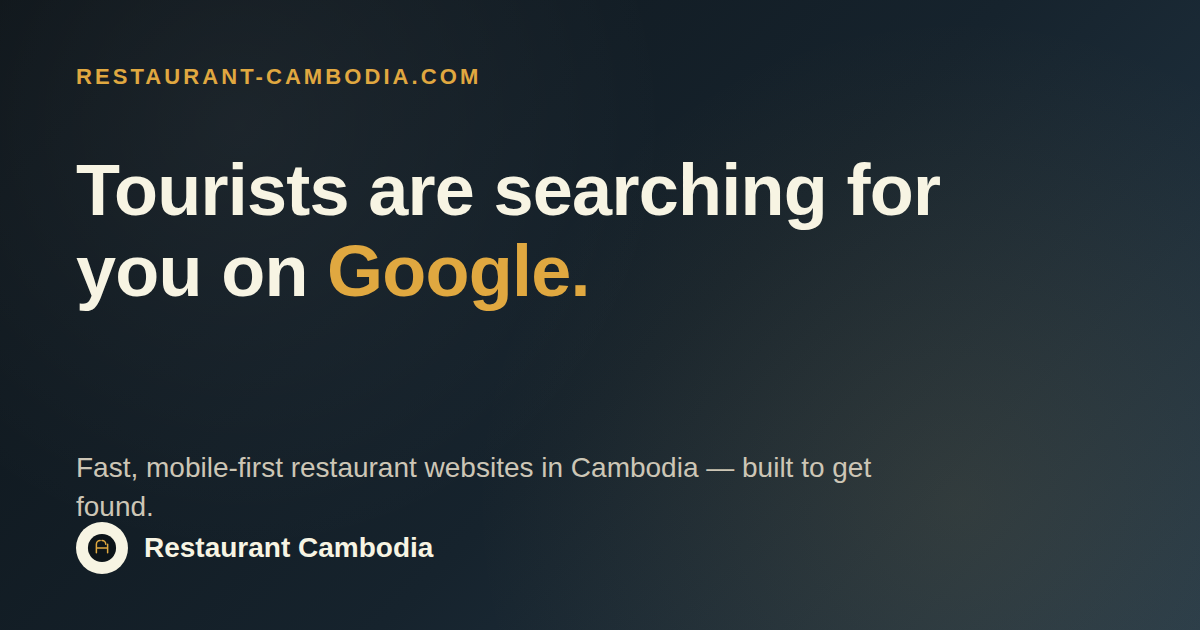
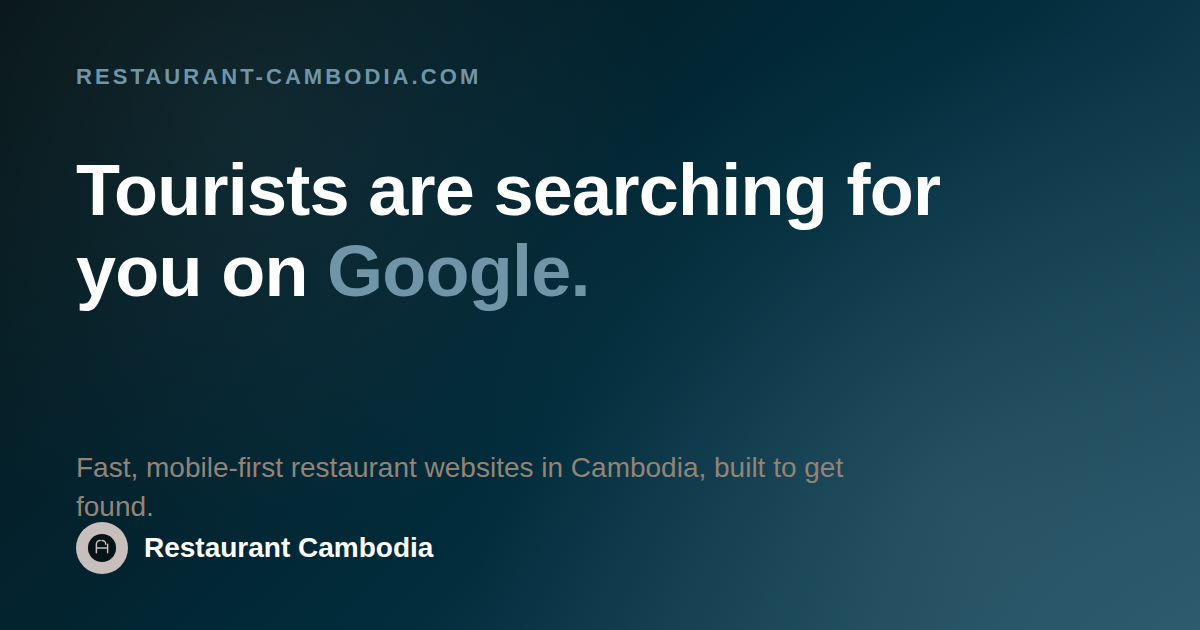
Re-theme to the dusk-lake navy/steel-blue/taupe palette
Swap the color system to the supplied swatches: near-black #061417,
deep navy #012C3C, steel blue #285669, taupe #928477, light greige
#C6BFBB. Unlike the previous gold accent, this palette's accent color
(steel blue) is a mid-tone rather than a light "pop" color, so it can't
do double duty as both a button background (needs light text on it) and
an icon/badge color on dark sections (needs a lighter tint instead).
Reworked every affected rule accordingly: buttons/badges/step-numbers
now use white text instead of dark text, and dark-section icons/borders
(problem items, footer links, featured pricing card) use a new lighter
--turmeric tint rather than the base accent, verified against WCAG
contrast math rather than by eye. Re-paletted the placeholder SVG
mockups, favicon, brand mark, and regenerated the OG share image to
match. Also fixed a couple of hardcoded rgba()/hex values in the header
and shadows that had gone stale in earlier re-themes.

diff --git a/styles.css b/styles.css
@@ -5,18 +5,18 @@
    ========================================================================== */
 
 :root {
-  /* Palette — moody navy/slate with a warm gold accent on cream/greige. */
-  --cream: #f7f4e3;
-  --cream-card: #cdc6b6;
+  /* Palette — moody dusk-lake blues with a warm taupe/greige neutral. */
+  --cream: #c6bfbb;
+  --cream-card: #928477;
   --white: #ffffff;
-  --charcoal: #0d1419;
-  --charcoal-soft: #253a4a;
-  --chili: #e0a840;
-  --chili-dark: #b9821b;
-  --turmeric: #253a4a;
-  --turmeric-dark: #16232d;
-  --line: #e4decd;
-  --shadow: 0 12px 30px -14px rgba(13, 20, 25, 0.35);
+  --charcoal: #061417;
+  --charcoal-soft: #012c3c;
+  --chili: #285669;
+  --chili-dark: #1c3c49;
+  --turmeric: #6f95a6;
+  --turmeric-dark: #012c3c;
+  --line: #ddd9d6;
+  --shadow: 0 12px 30px -14px rgba(6, 20, 23, 0.35);
 
   /* "Google Sans" isn't a redistributable web font — the stack tries it by
      name (resolves on devices that already have it, e.g. ChromeOS/Android)
@@ -153,13 +153,13 @@ section {
 
 .btn-primary {
   background: var(--chili);
-  color: var(--charcoal);
+  color: var(--white);
   box-shadow: var(--shadow);
 }
 
 .btn-primary:hover {
   background: var(--chili-dark);
-  box-shadow: 0 16px 30px -12px rgba(13, 20, 25, 0.45);
+  box-shadow: 0 16px 30px -12px rgba(6, 20, 23, 0.45);
 }
 
 .btn-ghost {
@@ -188,7 +188,7 @@ section {
   position: sticky;
   top: 0;
   z-index: 40;
-  background: rgba(251, 244, 230, 0.92);
+  background: rgba(198, 191, 187, 0.92);
   backdrop-filter: saturate(140%) blur(8px);
   border-bottom: 1px solid var(--line);
 }
@@ -353,6 +353,10 @@ section {
   color: var(--cream);
 }
 
+.problem .eyebrow {
+  color: var(--turmeric);
+}
+
 .problem .section-sub {
   color: var(--cream-card);
 }
@@ -378,14 +382,14 @@ section {
 .problem-item:hover {
   transform: translateY(-4px);
   background: rgba(255, 253, 248, 0.1);
-  border-color: var(--chili);
+  border-color: var(--turmeric);
 }
 
 .problem-item svg {
   width: 26px;
   height: 26px;
   flex: none;
-  color: var(--chili);
+  color: var(--turmeric);
 }
 
 .problem-item h3 {
@@ -429,7 +433,7 @@ section {
   align-items: center;
   justify-content: center;
   border-radius: 12px;
-  background: #f5e6c8;
+  background: #e2ebee;
   color: var(--chili-dark);
   margin-bottom: 14px;
 }
@@ -470,7 +474,7 @@ section {
 
 .example-frame:hover {
   transform: translateY(-6px);
-  box-shadow: 0 20px 40px -16px rgba(13, 20, 25, 0.4);
+  box-shadow: 0 20px 40px -16px rgba(6, 20, 23, 0.4);
 }
 
 .browser-chrome {
@@ -546,7 +550,7 @@ section {
 }
 
 .price-card.featured:hover {
-  box-shadow: 0 20px 40px -16px rgba(13, 20, 25, 0.55);
+  box-shadow: 0 20px 40px -16px rgba(6, 20, 23, 0.55);
 }
 
 .price-card.featured h3,
@@ -564,7 +568,7 @@ section {
   top: -13px;
   left: 24px;
   background: var(--chili);
-  color: var(--charcoal);
+  color: var(--white);
   font-size: 0.72rem;
   font-weight: 800;
   letter-spacing: 0.06em;
@@ -637,7 +641,7 @@ section {
 }
 
 .price-card.featured .price-features svg {
-  color: var(--chili);
+  color: var(--turmeric);
 }
 
 .pricing-note {
@@ -685,7 +689,7 @@ section {
   height: 38px;
   border-radius: 50%;
   background: var(--chili);
-  color: var(--charcoal);
+  color: var(--white);
   font-family: var(--font-display);
   font-weight: 600;
   font-size: 1.1rem;
@@ -743,7 +747,7 @@ section {
   font-weight: 500;
   font-size: 1.2rem;
   margin-top: 14px;
-  color: var(--chili);
+  color: var(--charcoal);
 }
 
 /* ---------- faq ---------- */
@@ -854,13 +858,13 @@ section {
 .footer-links svg {
   width: 18px;
   height: 18px;
-  color: var(--chili);
+  color: var(--turmeric);
 }
 
 .footer-fine {
   margin-top: 20px;
   font-size: 0.8rem;
-  color: #7c8b93;
+  color: var(--cream-card);
 }
 
 /* ---------- sticky mobile CTA bar ---------- */
@@ -873,7 +877,7 @@ section {
   padding: 10px 16px calc(10px + env(safe-area-inset-bottom));
   background: var(--white);
   border-top: 1px solid var(--line);
-  box-shadow: 0 -8px 20px -12px rgba(13, 20, 25, 0.3);
+  box-shadow: 0 -8px 20px -12px rgba(6, 20, 23, 0.3);
 }
 
 .sticky-cta .btn {

diff --git a/index.html b/index.html
@@ -6,7 +6,7 @@
 <title>Websites for Restaurants in Cambodia: Get Found on Google</title>
 <meta name="description" content="Fast, mobile-first websites for restaurants in Cambodia. Get found on Google Maps and search, not just Facebook. From $144/year. Message on Telegram." />
 <link rel="canonical" href="https://restaurant-cambodia.com/" />
-<meta name="theme-color" content="#f7f4e3" />
+<meta name="theme-color" content="#c6bfbb" />
 <meta name="robots" content="index, follow" />
 
 <!-- Open Graph -->
@@ -47,12 +47,12 @@
 
 <!-- Critical above-the-fold CSS, inlined so the hero paints before styles.css arrives. -->
 <style>
-  :root{--cream:#f7f4e3;--charcoal:#0d1419;--chili:#e0a840;--font-display:"Google Sans","Google Sans Text",Roboto,Arial,sans-serif;--font-body:"Google Sans Text","Google Sans",Roboto,Arial,sans-serif}
+  :root{--cream:#c6bfbb;--charcoal:#061417;--chili:#285669;--font-display:"Google Sans","Google Sans Text",Roboto,Arial,sans-serif;--font-body:"Google Sans Text","Google Sans",Roboto,Arial,sans-serif}
   *{box-sizing:border-box}
   body{margin:0;background:var(--cream);color:var(--charcoal);font-family:var(--font-body);line-height:1.55;-webkit-font-smoothing:antialiased}
   h1{font-family:var(--font-display);font-weight:700;line-height:1.15;margin:0 0 .5em;font-size:clamp(1.9rem,7vw,3rem);letter-spacing:-.01em}
   .container{width:100%;max-width:1120px;margin:0 auto;padding:0 20px}
-  .site-header{position:sticky;top:0;z-index:40;background:rgba(247,244,227,.92);border-bottom:1px solid #e4decd}
+  .site-header{position:sticky;top:0;z-index:40;background:rgba(198,191,187,.92);border-bottom:1px solid #ddd9d6}
   .site-header .container{display:flex;align-items:center;justify-content:space-between;gap:12px;padding-top:12px;padding-bottom:12px}
   .hero{padding:40px 0 48px}
   .accent{color:var(--chili)}
@@ -120,8 +120,8 @@
   <div class="container">
     <a class="brand" href="#top">
       <svg class="brand-mark" viewBox="0 0 32 32" fill="none" aria-hidden="true">
-        <circle cx="16" cy="16" r="15" fill="#0d1419"/>
-        <path d="M10 12c0-2.2 1.8-4 4-4M16 8c2.2 0 4 1.8 4 4M10 12v9M22 12v9M10 16h12" stroke="#e0a840" stroke-width="1.6" stroke-linecap="round"/>
+        <circle cx="16" cy="16" r="15" fill="#061417"/>
+        <path d="M10 12c0-2.2 1.8-4 4-4M16 8c2.2 0 4 1.8 4 4M10 12v9M22 12v9M10 16h12" stroke="#c6bfbb" stroke-width="1.6" stroke-linecap="round"/>
       </svg>
       <span>Restaurant Cambodia</span>
     </a>

diff --git a/README.md b/README.md
@@ -110,14 +110,21 @@ the Cloudflare dashboard, or rename the file and update the `<link>`/
 
 ## Design notes
 
-- **Palette** (from the brand swatches supplied): near-black navy `#0D1419`
-  (text, dark sections), slate `#253A4A` (secondary text/dark accents),
-  warm gold `#E0A840` (primary accent — buttons, links, icons), greige
-  `#CDC6B6` (alternate section backgrounds, muted text on dark), cream
-  `#F7F4E3` (page background). All as CSS custom properties at the top of
-  `styles.css` (`--chili` now holds the gold value, `--turmeric` the slate
-  value — kept the original variable *names* so the rest of the stylesheet
-  didn't need touching, only re-themed the values).
+- **Palette** (from the brand swatches supplied, a dusk-lake photo): near-
+  black deep teal `#061417` (text, darkest sections), deep navy `#012C3C`
+  (secondary text, alt dark tone), steel blue `#285669` (primary accent:
+  buttons, links, icons on light backgrounds), warm taupe `#928477`
+  (alternate section backgrounds, muted text on dark), light greige
+  `#C6BFBB` (page background). All as CSS custom properties at the top of
+  `styles.css` (`--chili` now holds the steel-blue value, `--turmeric` a
+  lighter tint of it used specifically for icons/labels sitting on the
+  dark `--charcoal` sections — kept the original variable *names* so the
+  rest of the stylesheet didn't need touching, only re-themed the values).
+  Note this palette's accent (`--chili`) is a mid-tone rather than a light
+  "pop" color like a previous gold accent was, so buttons/badges built on
+  it use light text (white), not dark text, to stay readable, and a
+  separate lighter `--turmeric` tint covers icons on dark backgrounds
+  where the base accent alone wouldn't have enough contrast.
 - **Font: Google Sans everywhere.** "Google Sans" isn't a redistributable
   web font — Google doesn't publish it on Google Fonts — so the stack
   requests it *by name* first (`"Google Sans", "Google Sans Text"`), which